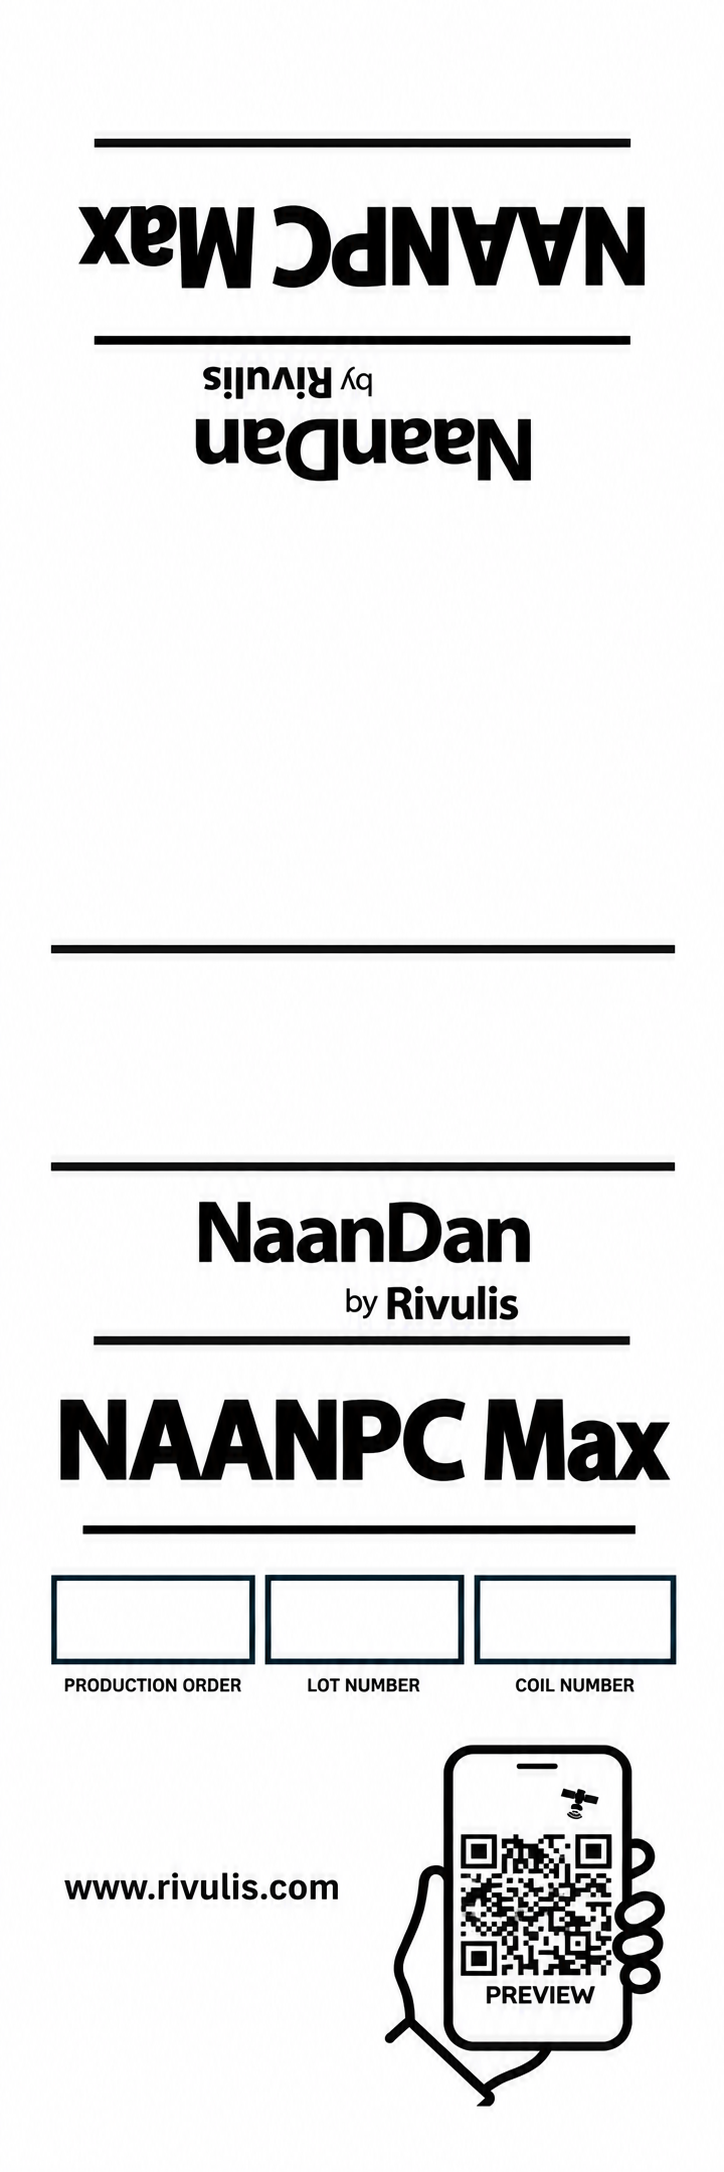
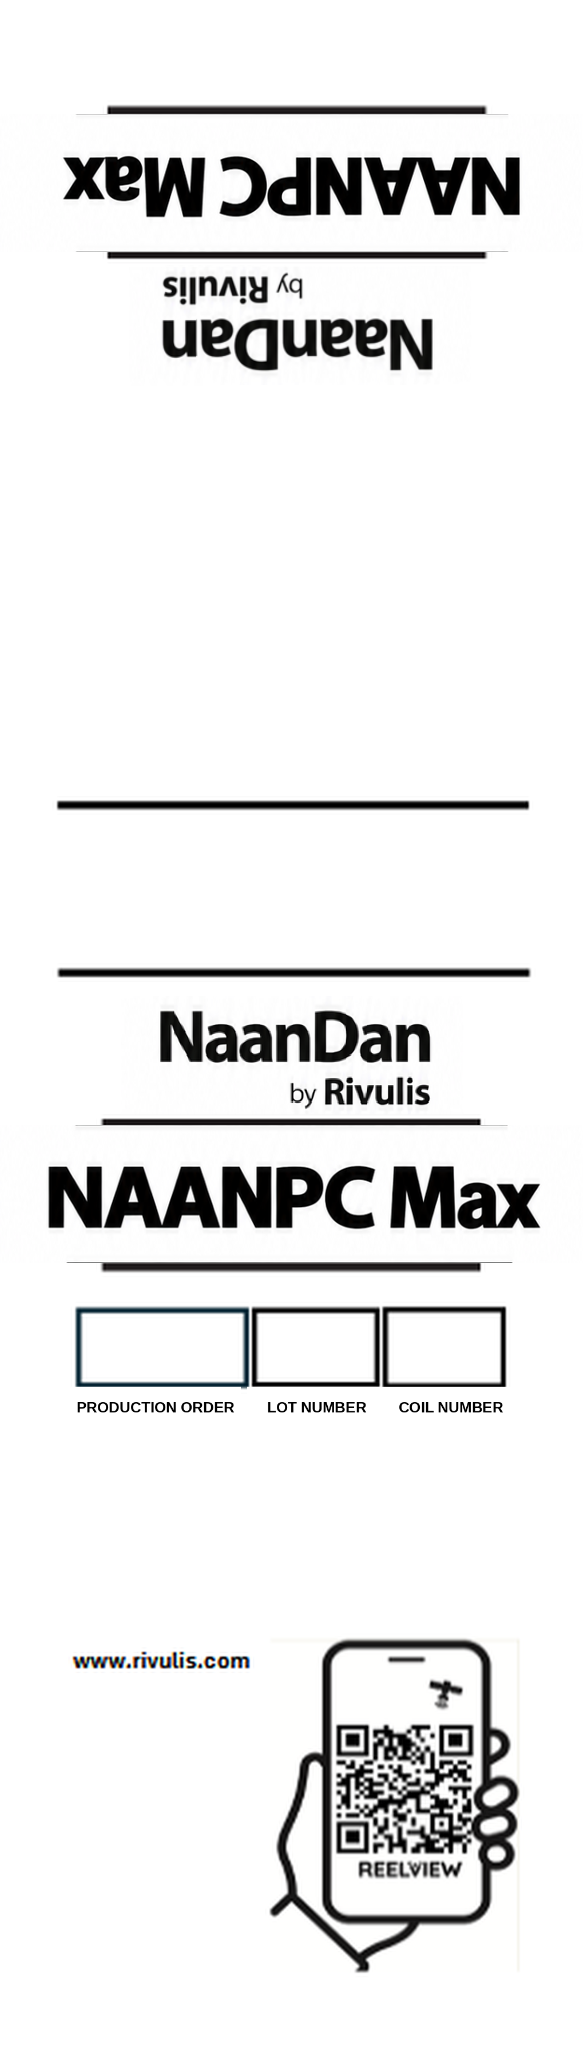
Actualizar plantillas formato 1 y etiquetas de palet

diff --git a/src/components/print/PalletLabelPreview.tsx b/src/components/print/PalletLabelPreview.tsx
@@ -31,7 +31,9 @@ export default function PalletLabelPreview({
 
   customer,
 
-  quantity
+  quantity,
+
+  productTitle
 
 }: Props) {
 
@@ -60,6 +62,140 @@ export default function PalletLabelPreview({
 
   const exporter =
     "RIVULIS IRRIGATION, S.L.U.";
+
+
+  /*
+   * ==================================================
+   * NORMALIZAR NOMBRE DE PRODUCTO
+   * ==================================================
+   *
+   * El nombre llega desde la plantilla real
+   * asignada al SKU.
+   *
+   * Ejemplos:
+   *
+   * TURBO EXCEL
+   * TURBO EXCEL BOBINAS
+   * CHAPIN
+   * D900
+   * TAL DRIP GEN 2
+   * TALDRIP GEN2
+   *
+   * Lo convertimos a mayúsculas y eliminamos
+   * caracteres especiales para poder identificar
+   * correctamente el fondo de palet.
+   * ==================================================
+   */
+
+  const normalizedProductTitle =
+    String(
+      productTitle ??
+      ""
+    )
+      .toUpperCase()
+      .trim()
+      .replace(
+        /[^A-Z0-9]+/g,
+        " "
+      )
+      .replace(
+        /\s+/g,
+        " "
+      )
+      .trim();
+
+
+  /*
+   * ==================================================
+   * FONDO DE ETIQUETA DE PALET
+   * ==================================================
+   */
+
+  function getPalletBackground():
+    string {
+
+
+    /*
+     * CHAPIN
+     */
+
+    if (
+      normalizedProductTitle.includes(
+        "CHAPIN"
+      )
+    ) {
+
+      return "/templates/palet/chapin-palet.png";
+
+    }
+
+
+    /*
+     * D900
+     */
+
+    if (
+      normalizedProductTitle.includes(
+        "D900"
+      )
+    ) {
+
+      return "/templates/palet/d900-palet.png";
+
+    }
+
+
+    /*
+     * TAL DRIP GEN 2
+     *
+     * Admitimos:
+     *
+     * TAL DRIP
+     * TAL DRIP GEN 2
+     * TALDRIP
+     * TALDRIP GEN2
+     */
+
+    if (
+      normalizedProductTitle.includes(
+        "TAL DRIP"
+      ) ||
+      normalizedProductTitle.includes(
+        "TALDRIP"
+      )
+    ) {
+
+      return "/templates/palet/taldripgen2-palet.png";
+
+    }
+
+
+    /*
+     * TURBO EXCEL
+     *
+     * Fondo original y también fallback
+     * para mantener el comportamiento anterior.
+     */
+
+    return "/templates/palet/turboexcel-palet.png";
+
+  }
+
+
+  const palletBackground =
+    getPalletBackground();
+
+
+  /*
+   * ==================================================
+   * TEXTO ALTERNATIVO DEL FONDO
+   * ==================================================
+   */
+
+  const palletBackgroundAlt =
+    productTitle?.trim()
+      ? `Etiqueta de palet ${productTitle.trim()}`
+      : "Etiqueta de palet";
 
 
   /*
@@ -243,13 +379,17 @@ export default function PalletLabelPreview({
       >
 
         {/* =============================================
-            FONDO ORIGINAL
+            FONDO SEGÚN PRODUCTO
             ============================================= */}
 
         <Box
           component="img"
-          src="/templates/palet/turboexcel-palet.png"
-          alt="Etiqueta de palet Turbo Excel"
+          src={
+            palletBackground
+          }
+          alt={
+            palletBackgroundAlt
+          }
           sx={{
             position:
               "absolute",
